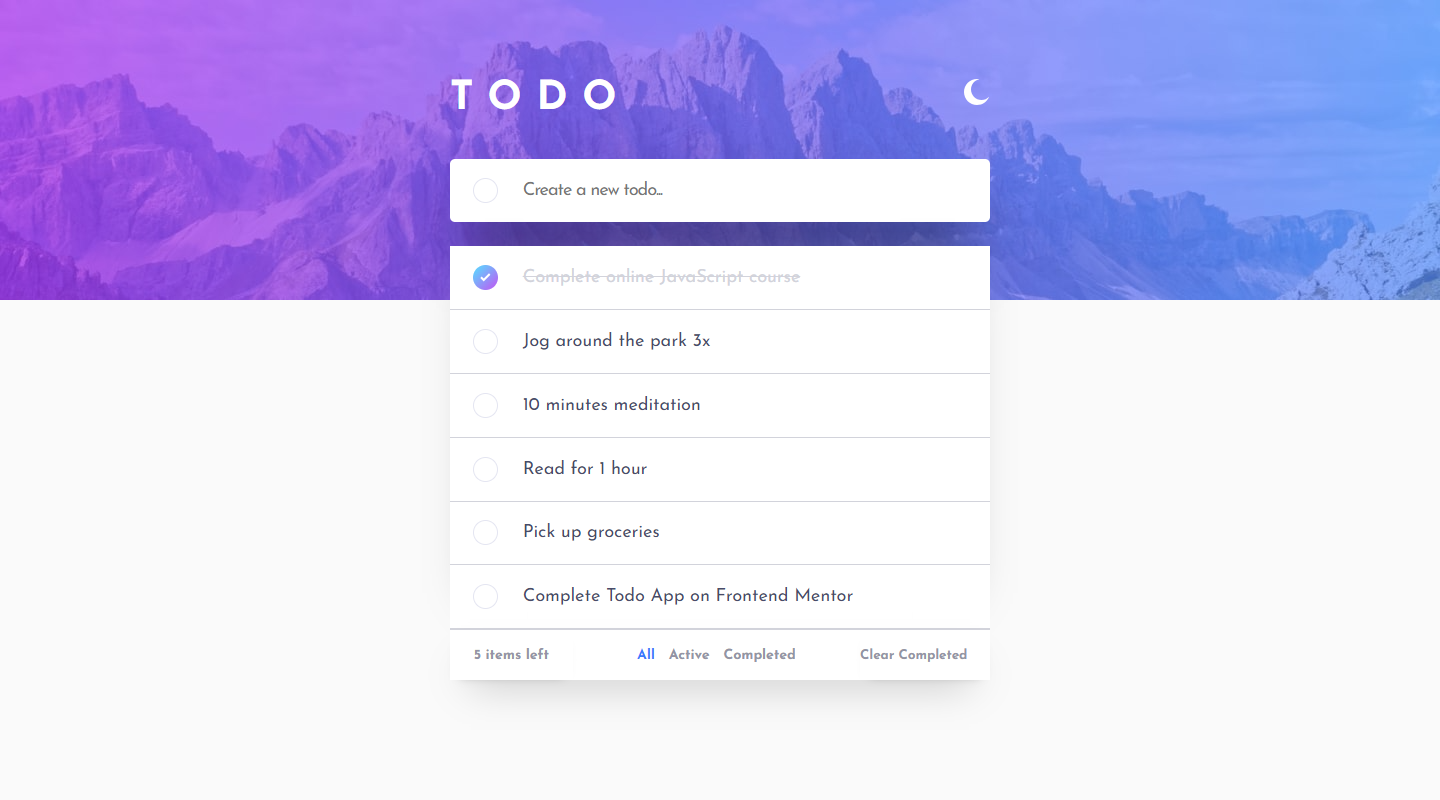
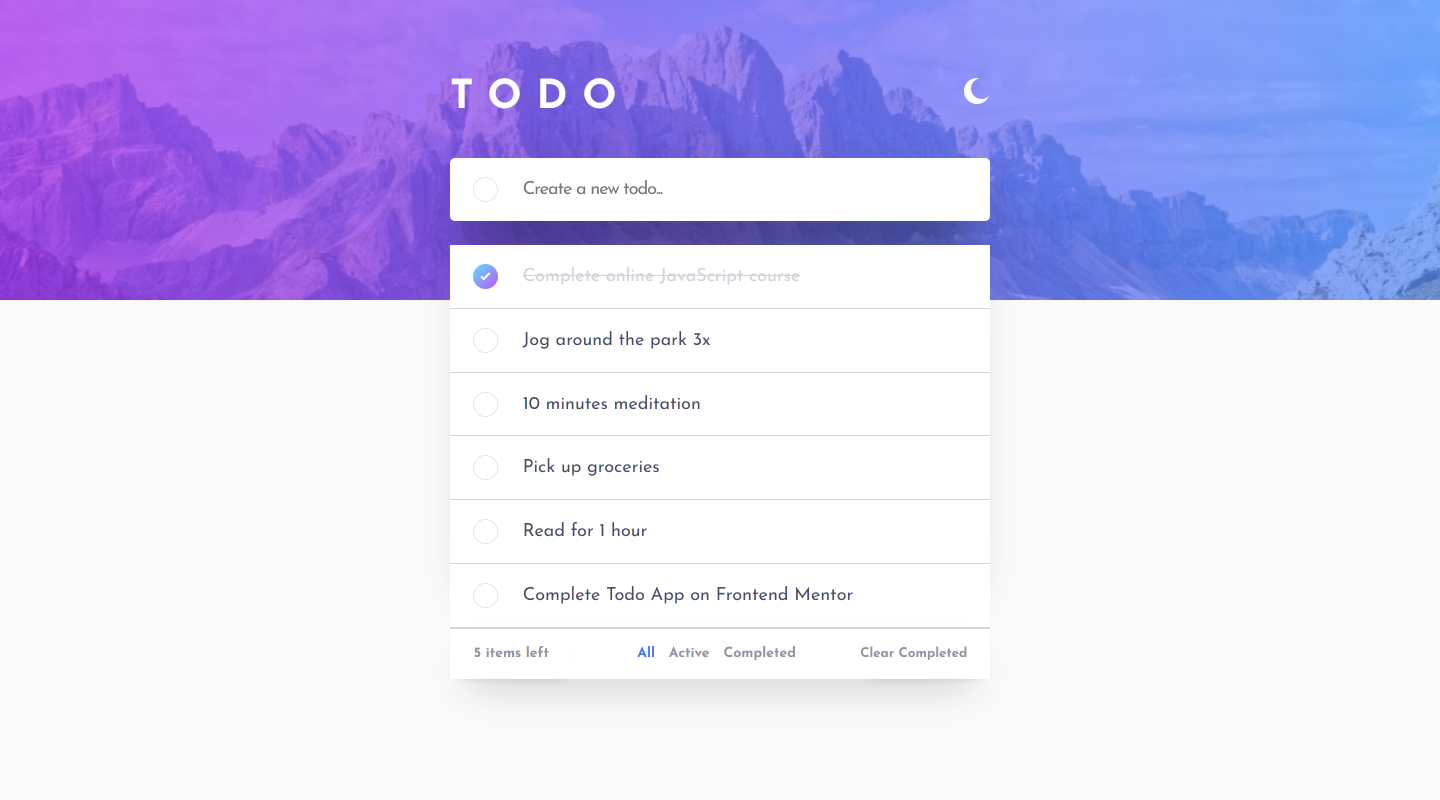
Actualizar README
Se actualiza las imágenes.

Se agrega información en ‘What I learned’.

diff --git a/README.md b/README.md
@@ -30,13 +30,15 @@ Users should be able to:
 - TypeScript
 - React
 - Lib
- - [Formik](https://formik.org/)
- - [Yup](https://www.npmjs.com/package/yup)
- - [Drag and Drop](https://www.npmjs.com/package/react-beautiful-dnd)
+  - [Formik](https://formik.org/)
+  - [Yup](https://www.npmjs.com/package/yup)
+  - [Drag and Drop](https://www.npmjs.com/package/react-beautiful-dnd)
 - Vite
 - ESLint
 - HTML
 - CSS
 
 ## What I learned
-
+[X] Button Accessibility
+[X] Dark mode with LocalStorage
+[X] Drag and drop library
